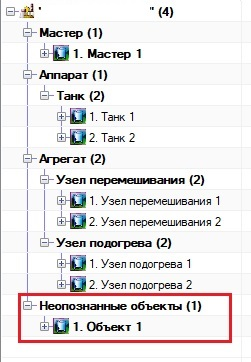
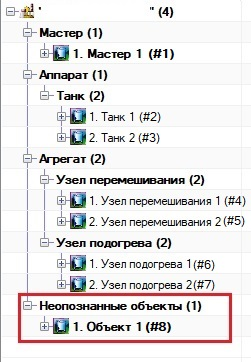
Possibility to use Del button for delete (#600)

diff --git a/src/TechObject/ObjectsTree/UniversalObject/TechObject.cs b/src/TechObject/ObjectsTree/UniversalObject/TechObject.cs
@@ -65,6 +65,14 @@ namespace TechObject
                 SetValue(value);
             }
 
+            public override bool IsDeletable
+            {
+                get
+                {
+                    return false;
+                }
+            }
+
             public override bool SetNewValue(string newValue)
             {
                 const int minimalNumber = 0;
@@ -307,13 +315,58 @@ namespace TechObject
                 return res;
             }
 
+            private string GenerateAttachedObjectsString()
+            {
+                string value = Value ?? string.Empty;
+                if(value == string.Empty)
+                {
+                    return value;
+                }
+
+                var objectNums = value.Split(' ').Select(int.Parse);
+                var objectNames = new List<string>();
+                foreach(var objNum in objectNums)
+                {
+                    TechObject findedObject = TechObjectManager.GetInstance()
+                        .GetTObject(objNum);
+                    if(findedObject != null)
+                    {
+                        string name = $"\"{findedObject.Name} " +
+                            $"{findedObject.TechNumber}\"";
+                        objectNames.Add(name);
+                    }
+                }
+
+                return string.Join(", ", objectNames);
+            }
+
             #region реализация ITreeViewItem
+            public override string[] DisplayText
+            {
+                get
+                {
+                    return new string[] 
+                    { 
+                        Name,
+                        GenerateAttachedObjectsString() 
+                    };
+                }
+            }
+
             public override bool NeedRebuildParent 
             { 
                 get 
                 { 
                     return true; 
                 } 
+            }
+
+            public override int[] EditablePart
+            {
+                get
+                {
+                    return new int[] { -1, -1 };
+                }
             }
 
             override public bool IsEditable
@@ -346,6 +399,28 @@ namespace TechObject
                     {
                         return false;
                     }
+                }
+            }
+
+            public override bool IsDeletable
+            {
+                get
+                {
+                    return true;
+                }
+            }
+
+            public override bool Delete(object child)
+            {
+                bool cleared = SetNewValue(string.Empty);
+                return cleared;
+            }
+
+            public override bool ShowWarningBeforeDelete
+            {
+                get
+                {
+                    return true;
                 }
             }
             #endregion
@@ -817,6 +892,11 @@ namespace TechObject
                 errors += attachedObjects.Check();
             }
 
+            if(nameEplan.Value == string.Empty)
+            {
+                errors += $"Не задано ОУ в объекте \"{objName}\"\n";
+            }
+
             ModesManager modesManager = ModesManager;
             List<Mode> modes = modesManager.Modes;
             foreach (var mode in modes)
@@ -912,28 +992,11 @@ namespace TechObject
 
         public override bool Delete(object child)
         {
-            var equipment = child as Equipment;
-            if (equipment != null)
+            ITreeViewItem item = child as ITreeViewItem;
+            if(item != null)
             {
-                var objEquips = equipment.Items
-                    .Select(x => x as BaseParameter).ToArray();
-                foreach(var equip in objEquips)
-                {
-                    equip.SetNewValue("");
-                }
-            }
-
-            var parameters = child as ParamsManager;
-            if (parameters != null)
-            {
-                parameters.Clear();
+                item.Delete(this);
                 return true;
-            }
-
-            if (child.GetType() == typeof(ObjectProperty))
-            {
-                var objectProperty = child as ObjectProperty;
-                objectProperty.Delete(this);
             }
 
             return false;

diff --git a/src/TechObject/ObjectsTree/UniversalObject/Equipment.cs b/src/TechObject/ObjectsTree/UniversalObject/Equipment.cs
@@ -367,13 +367,12 @@ namespace TechObject
 
         public override bool Delete(object child)
         {
-            var property = child as BaseParameter;
-            if (property != null)
+            var objEquips = Items.Select(x => x as BaseParameter).ToArray();
+            foreach (var equip in objEquips)
             {
-                property.SetNewValue("");
-                return true;
+                equip.SetNewValue("");
             }
-            return false;
+            return true;
         }
 
         public override bool IsDeletable
@@ -421,6 +420,14 @@ namespace TechObject
             string ostisLink = EasyEPlanner.ProjectManager.GetInstance()
                 .GetOstisHelpSystemLink();
             return ostisLink + "?sys_id=control_module";
+        }
+
+        public override bool ShowWarningBeforeDelete
+        {
+            get
+            {
+                return true;
+            }
         }
 
         #region Синхронизация устройств в объекте.

diff --git a/src/Editor/ObjectProperty.cs b/src/Editor/ObjectProperty.cs
@@ -152,7 +152,7 @@ namespace Editor
 
         public virtual bool Delete(object child)
         {
-            if (value.GetType() == defaultValue.GetType())
+            if (value.GetType() == defaultValue.GetType() && IsDeletable)
             {
                 return SetNewValue(DefaultValue);
             }
@@ -232,7 +232,7 @@ namespace Editor
             }
         }
 
-        public int[] EditablePart
+        public virtual int[] EditablePart
         {
             get
             {
@@ -383,7 +383,7 @@ namespace Editor
             }
         }
 
-        public bool ShowWarningBeforeDelete
+        public virtual bool ShowWarningBeforeDelete
         {
             get
             {

diff --git a/src/Editor/NewEditorControl.cs b/src/Editor/NewEditorControl.cs
@@ -48,7 +48,7 @@ namespace Editor
             editorTView.CellToolTipGetter =
                 delegate (OLVColumn column, object displayingObject)
                 {
-                    if (displayingObject is TreeViewItem)
+                    if (displayingObject is ITreeViewItem)
                     {
                         var obj = displayingObject as ITreeViewItem;
                         switch (column.Index)

diff --git a/src/TechObject/ObjectsTree/UniversalObject/ParamsManager.cs b/src/TechObject/ObjectsTree/UniversalObject/ParamsManager.cs
@@ -222,12 +222,6 @@ namespace TechObject
             return errors;
         }
 
-        public void Clear()
-        {
-            parFLoat.Clear();
-            parFLoatRunTime.Clear();
-        }
-
         #region Реализация ITreeViewItem
         override public string[] DisplayText
         {
